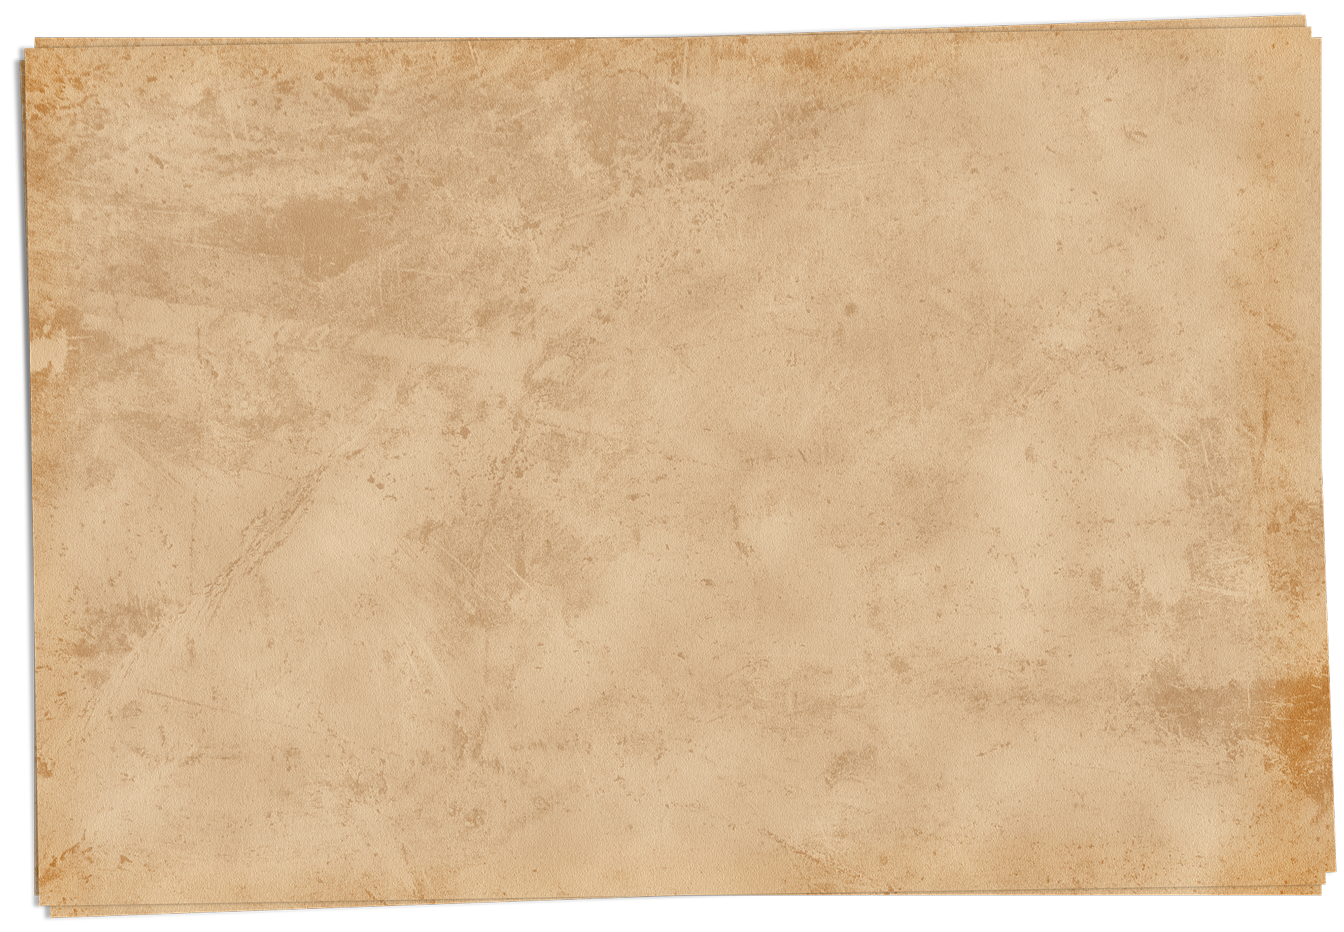
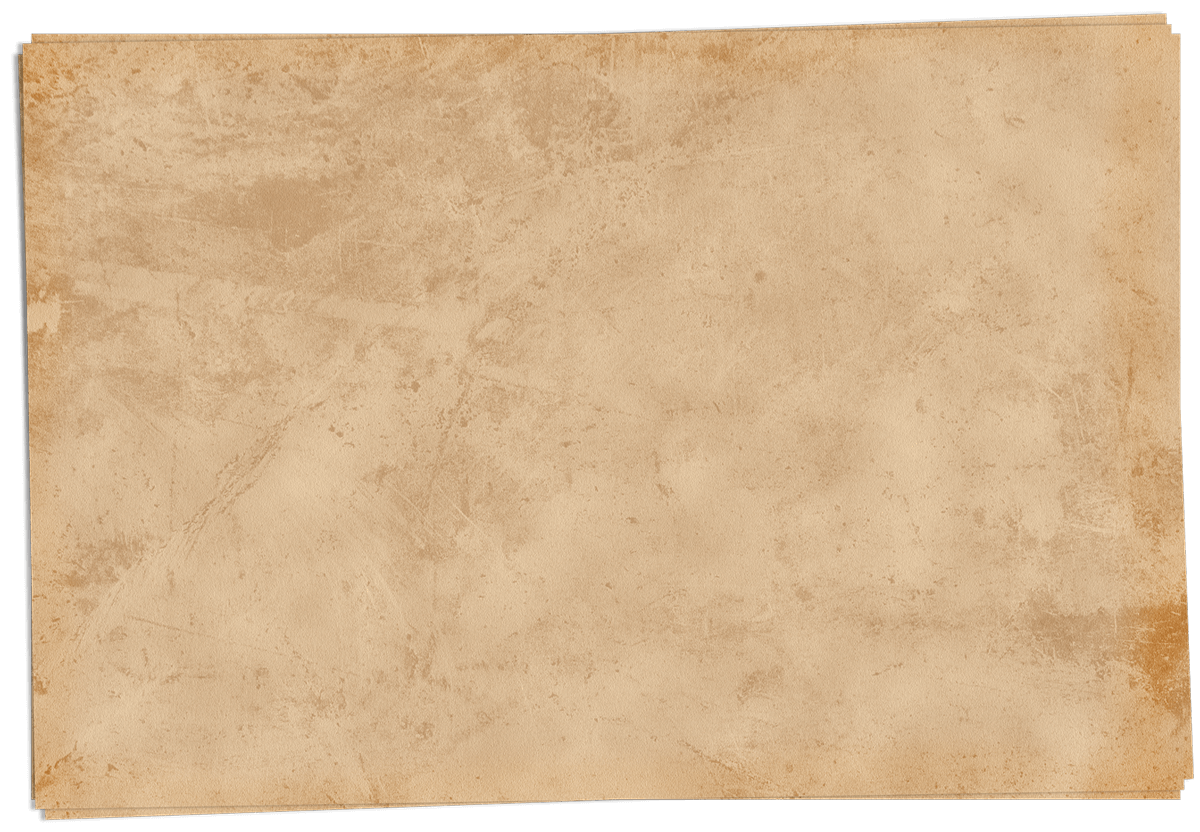
opt images

Changed region(s): [[0.9867, 0.9062, 1.0, 0.9375]]

diff --git a/styles/css/style.css b/styles/css/style.css
@@ -370,7 +370,7 @@ template {
 }
 
 body {
-  background-image: url(../../images/66.jpg);
+  background-image: url(../../images/bg.jpg);
   background-repeat: repeat-y;
   background-position: 0 40%;
   background-size: 100%;
@@ -607,7 +607,7 @@ body * {
 .navigation__btn-to-top {
   position: fixed;
   bottom: 10px;
-  left: 10px;
+  right: 15px;
   width: 50px;
   height: 50px;
   font-size: 50px;
@@ -1266,6 +1266,9 @@ body * {
   font-size: 38px;
   margin: 10px auto;
   position: relative;
+  background: -webkit-linear-gradient(#fdf8c8 0%, #ec8201 62%, #e50013 100%);
+  -webkit-background-clip: text;
+  -webkit-text-fill-color: transparent;
 }
 
 .delivery__desc-gratis {
@@ -1280,6 +1283,8 @@ body * {
 }
 
 .delivery__phone {
+  font-family: "WEST____";
+  font-size: 38px;
   display: -webkit-box;
   display: -ms-flexbox;
   display: flex;
@@ -1425,6 +1430,8 @@ body * {
     -ms-flex-wrap: wrap;
         flex-wrap: wrap;
     padding: 20px;
+    -webkit-box-shadow: none;
+    box-shadow: none;
   }
 }
 
@@ -1494,7 +1501,6 @@ body * {
 
 .contact__copyright {
   background-color: rgba(0, 0, 0, 0.212);
-  width: 100%;
   color: white;
   padding: 2px;
   margin: 2px;

diff --git a/index.html b/index.html
@@ -274,9 +274,8 @@
         <section class="delivery" id="delivery" >
                 <h3 class="delivery__title">DOSTAWA I PŁATNOSC</h3>
                 <div class="delivery__container">
-
                         <div class="delivery__cont-about">
-                                <p class="delivery__desc">ZAMÓW Z DOWOZEM! <a href="tel:412741100" class="delivery__phone"><span class="fas fa-phone delivery__icon"></span>41 274 11 00</a></p>
+                                <p class="delivery__desc">ZAMÓW Z DOWOZEM!</p> <a href="tel:412741100" class="delivery__phone"><span class="fas fa-phone delivery__icon"></span>41 274 11 00</a>
                                 <p class="delivery__desc-gratis">Dowóz w godzinach pracy zakładu. <br>Na terenie miasta +4zł, a
                                         przy zamówieniu powyżej 35zł - dowóz GRATIS!</p>
                         </div>
@@ -284,9 +283,6 @@
                                 <img src="./images/only-cash.png" alt="cash" class="delivery__cash-img">
 
                         </div>
-
-
-
                 </div>
         </section>
     <footer class="contact" id="contact" >

diff --git a/styles/sass/_footer.scss b/styles/sass/_footer.scss
@@ -51,6 +51,9 @@ box-shadow: 0px 0px 6px 2px rgba(0,0,0,0.75);
         margin: 50px auto 0;
         flex-wrap: wrap;
         padding: 20px;
+        -webkit-box-shadow: none;
+-moz-box-shadow: none;
+box-shadow: none;
     }
 }
 .contact__element{
@@ -101,7 +104,7 @@ box-shadow: 0px 0px 6px 2px rgba(0,0,0,0.75);
 }
 .contact__copyright{
     background-color: rgba(0, 0, 0, 0.212);
-    width: 100%;
+    // width: auto;
     color: white;
     padding: 2px;
     margin: 2px;

diff --git a/scripts/main.js b/scripts/main.js
@@ -12,6 +12,11 @@ $(document).ready(function (){
             scrollTop: $("#menu").offset().top
         }, 500);
     });
+    $(".about__btn--menu").click(function (){
+        $('html, body').animate({
+            scrollTop: $("#menu").offset().top
+        }, 500);
+    });
     $("#link-delivery").click(function (){
         $('html, body').animate({
             scrollTop: $("#delivery").offset().top

diff --git a/styles/sass/_delivery.scss b/styles/sass/_delivery.scss
@@ -73,6 +73,7 @@
     font-size: 38px;
     margin: 10px auto;
     position: relative;
+    @include title-color;
 }
 .delivery__desc-gratis{
     font-style: italic;
@@ -83,6 +84,8 @@
 }
 
 .delivery__phone{
+    font-family: "WEST____";
+    font-size: 38px;
     display: flex;
     justify-content: center;
     align-items: center;

diff --git a/styles/sass/_base.scss b/styles/sass/_base.scss
@@ -24,7 +24,7 @@
     font-style: normal;
 }
 body{
-    background-image: url(../../images/66.jpg);
+    background-image: url(../../images/bg.jpg);
     background-repeat: repeat-y;
     background-position: 0 40%;
     background-size: 100%;

diff --git a/styles/sass/_nav.scss b/styles/sass/_nav.scss
@@ -167,7 +167,7 @@
 .navigation__btn-to-top{
     position: fixed;
     bottom: 10px;
-    left: 10px;
+    right: 15px;
     width: 50px;
     height: 50px;
     font-size: 50px;
